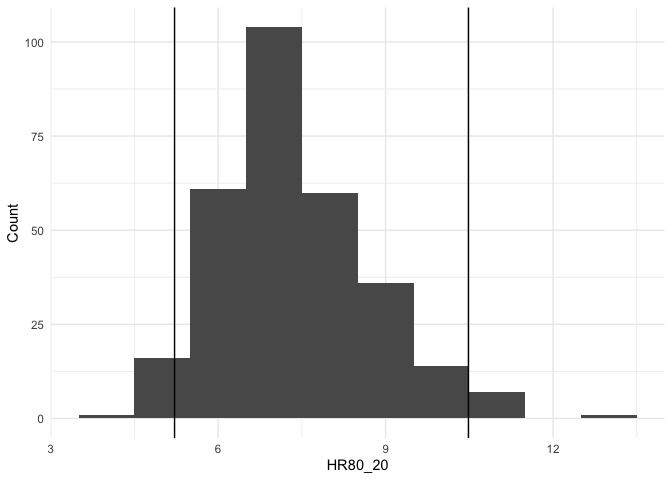
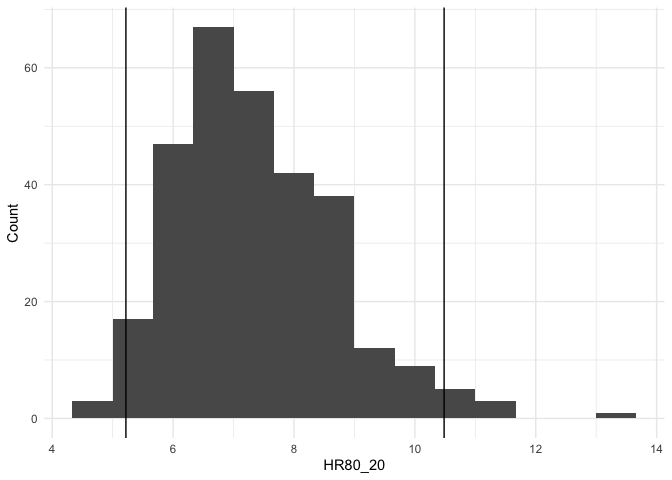
update OR calculation to use K-M curve

diff --git a/README.md b/README.md
@@ -99,7 +99,7 @@ own confidence intervals:
 
 ``` r
 ggplot(mapping = aes(x = HR80_20$iters)) +
-    geom_histogram(binwidth = 1) +
+    geom_histogram(binwidth = 2/3) +
     geom_vline(xintercept = HR80_20$conf.low) +
     geom_vline(xintercept = HR80_20$conf.high) +
         theme_minimal() +
@@ -117,13 +117,24 @@ print(OR80_20[1:3])
 ```
 
     ## $OR
-    ## [1] 1.049869
+    ## [1] 8.181727
     ## 
     ## $conf.low
-    ## [1] 0.4889092
+    ## [1] 3.979154
     ## 
     ## $conf.high
-    ## [1] 1.953307
+    ## [1] 23.16976
+
+``` r
+ggplot(mapping = aes(x = OR80_20$iters)) +
+    geom_histogram(binwidth = 2) +
+    geom_vline(xintercept = OR80_20$conf.low) +
+    geom_vline(xintercept = OR80_20$conf.high) +
+        theme_minimal() +
+        labs(x = "OR80_20", y = "Count")
+```
+
+![](README_files/figure-gfm/OR_histogram-1.png)<!-- -->
 
 Return the concordance index with 95% confidence intervals from a coxph
 fit:
